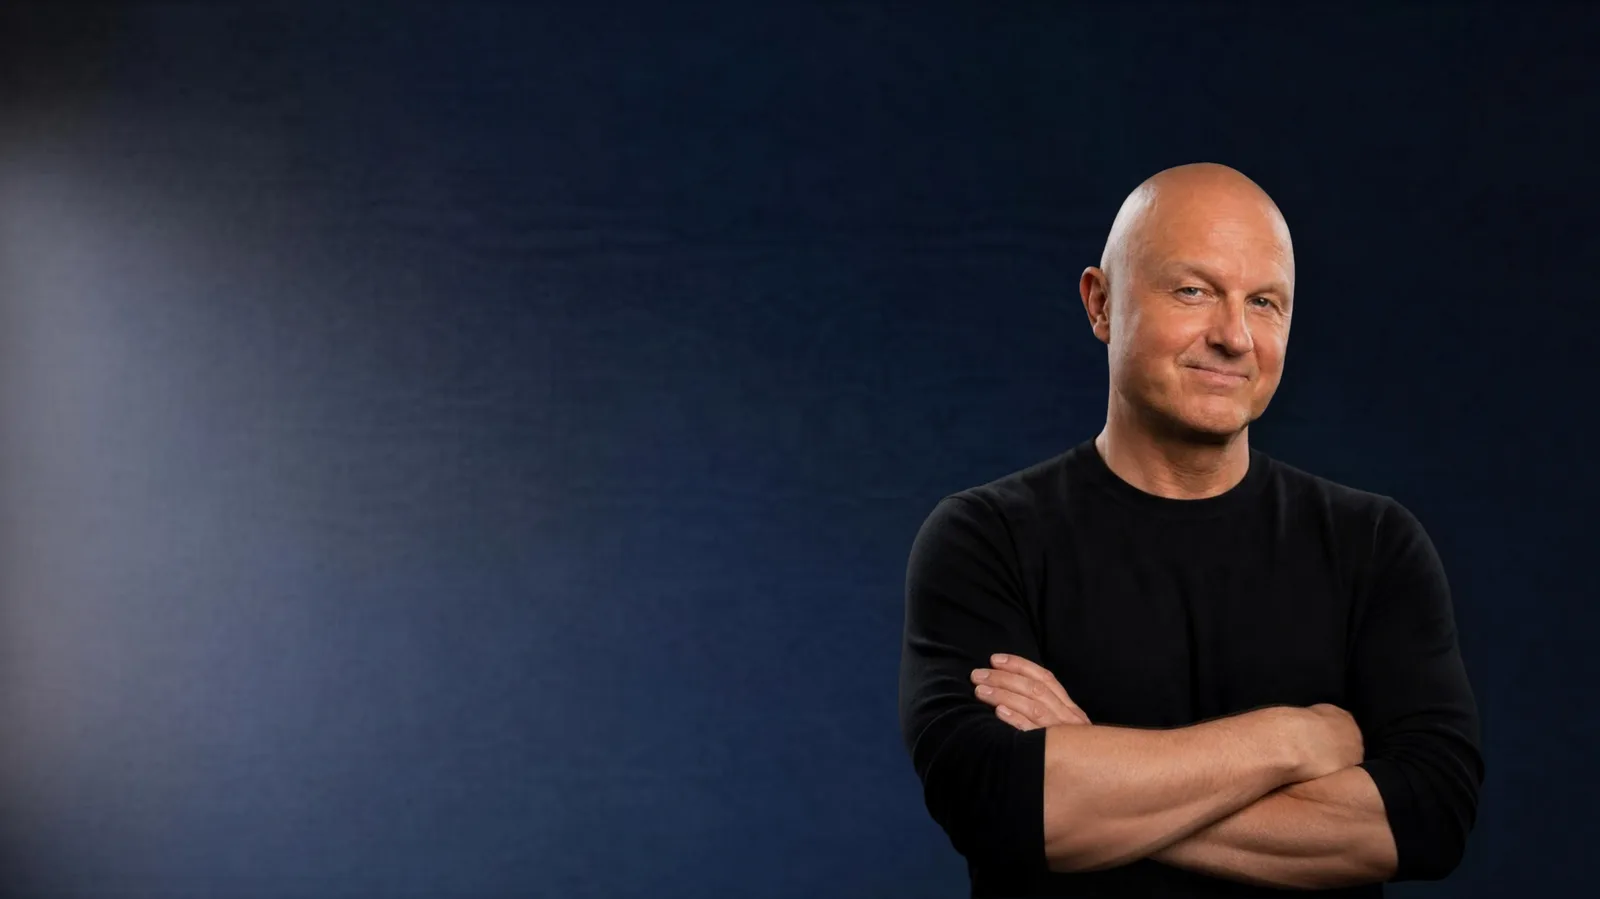
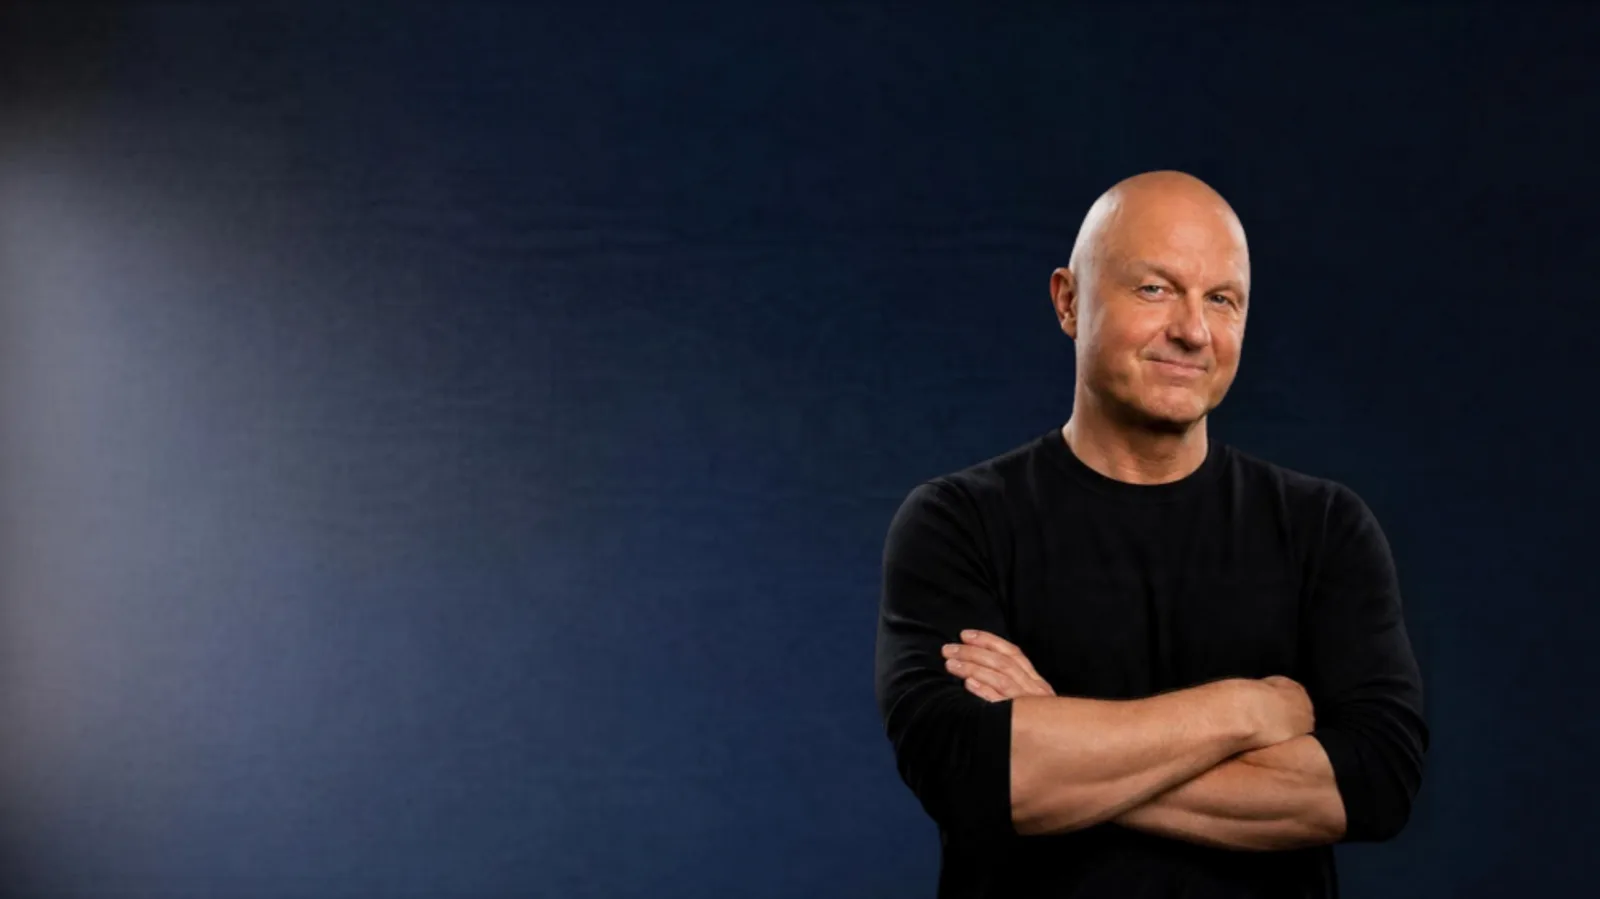
r050: hero photo H30: Richard zoomed out to the hips (Canva re-frame of V20), centred in the crop window with even air; caption centred under the column

diff --git a/index.html b/index.html
@@ -217,10 +217,9 @@
                på 1440×900). Under 900 px ligger bildet øverst som et 1:1-utsnitt. */
             .masthead-card { grid-template-columns: minmax(0, 1fr) minmax(0, 1fr); min-height: 0; }
             .masthead-media { position: relative; }
-            /* Hero 2026-10-15 (H27 + kodet bildetekst): Richard foran marineblå vegg, ved 56–93 % av bildebredden.
-               Desktop-vinduet (556×668) viser 47 % av bredden: object-position 92 % gir 241 px vegg venstre for armen
-               (ned fra 384 ved 84 %) og 96 px luft mellom skulderen og høyre kant, så han står midt i sitt eget felt.
-               Mobil (1:1, 54 % av bredden): 100 % gir 325 px venstre og 239 px høyre. */
+            /* Hero 2026-10-15 (H30 + kodet bildetekst): Richard foran marineblå vegg, zoomet ut til hoften og plassert
+               midt i vinduet. Desktop-vinduet (556×668) viser 47 % av bredden ved object-position 92 %: armene spenner
+               75 % av vinduet med lik luft på begge sider og hodet 16 % fra toppen. Mobil (1:1): 100 %. */
             .masthead-media img { position: absolute; inset: 0; width: 100%; height: 100%; object-fit: cover; object-position: 92% 40%; }
             @media (max-width: 900px) {
                 .masthead-card { grid-template-columns: minmax(0, 1fr); }
@@ -233,14 +232,14 @@
                Ordlyd etter Richards ønske: «Daglig leder (Richard)» i vanlig skrift, ikke versaler. Farger: «Daglig leder»
                i sidens teal-tekstfarge (#25757f, 5,3:1 på hvitt), «(Richard)» i brødtekstfargen; logoens egen blå (#3fc3d5)
                gir bare 2,1:1 som tekst og brukes ikke her. */
-            /* Sentrert under Richard, ikke under kolonnen: midten hans ligger 54,5 % inn i desktop-vinduet og 52,4 % på
-               mobil, så en venstre-padding på 2× avviket (4,5 % / 4,8 % av containeren) flytter senteret dit. */
-            .masthead-caption { margin: var(--space-3) 0 0 50%; padding-left: 4.5%; display: flex; justify-content: center; align-items: center; gap: 0.35em; font-size: 14px; font-weight: 600; letter-spacing: 0.02em; line-height: 1; white-space: nowrap; }
+            /* H30: Richard står midt i både desktop- og mobilvinduet (senter 2419 px i masteren mot vinduenes 2431/2416),
+               så bildeteksten sentreres rett under kolonnen. */
+            .masthead-caption { margin: var(--space-3) 0 0 50%; display: flex; justify-content: center; align-items: center; gap: 0.35em; font-size: 14px; font-weight: 600; letter-spacing: 0.02em; line-height: 1; white-space: nowrap; }
             .masthead-caption-name { color: var(--color-text-secondary); }
             .masthead-caption-role { color: var(--accent-text-strong); }
             @media (max-width: 900px) {
                 .masthead-media { order: 0; }
-                .masthead-caption { margin: var(--space-3) 0 0; padding-left: 4.8%; }
+                .masthead-caption { margin: var(--space-3) 0 0; }
             }
             /* The wall in the photo is already dark navy, so dark mode only needs a light tint to sit
                evenly on the dark page (the previous bright office photo needed 0.45). */
